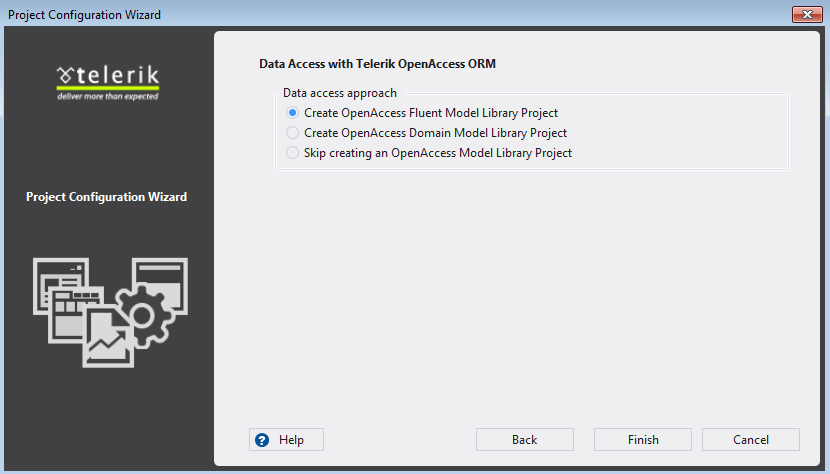
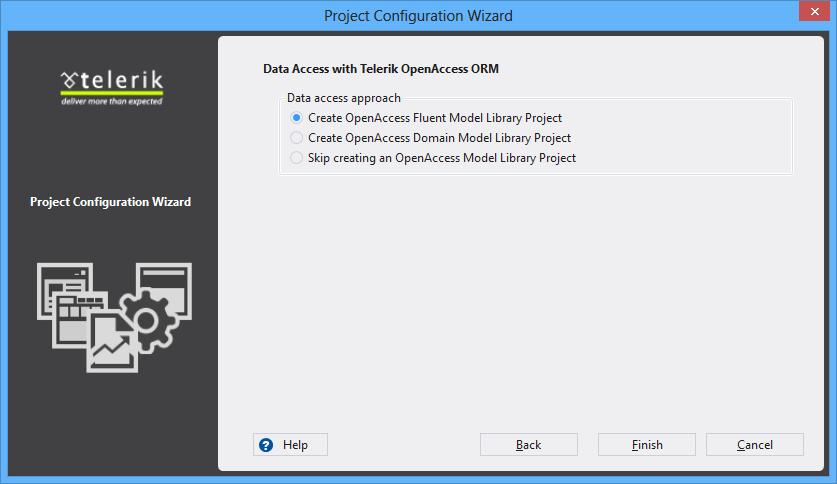
Updating VS Extensions documentation
- Updated articles with content about the new "Add assemblies to
solution" feature
- Updated almost all screenshots (so they are all themed like windows 8,
rather than only some of them). The ones I did not update are in
outdated documentation for functionality that is to be deprecated.

Changed region(s): [[0.0, 0.0, 1.0, 1.0], [0.3012, 0.1181, 0.9337, 0.384], [0.0602, 0.1477, 0.2108, 0.2363]]

diff --git a/getting-started/using-kendo-with/aspnet-mvc/vs-integration/new-project-wizard.md b/getting-started/using-kendo-with/aspnet-mvc/vs-integration/new-project-wizard.md
@@ -17,6 +17,7 @@ The New Project wizard is used for creation of a new Kendo UI for ASP.NET MVC Ap
 Using the options in the Kendo UI for ASP.NET MVC Project Settings page you can modify various project-wide settings:
 
 -	**Version** - Choose which version of Kendo UI for ASP.NET MVC to use
+- **Add referenced assemblies to solution** - Choose whether to copy referenced assemblies to your solution folder. The assemblies will automatically get added to source control when using Microsoft Team Foundation Server. 
 -	**Target ASP.NET MVC Version** – Choose the targeted ASP.NET MVC version
 -	**View Engine** – Choose between Razor and WebForms
 -	**Theme** – Choose the visual theme for your Kendo UI for ASP.NET MVC Application
@@ -47,6 +48,7 @@ When you click 'Finish', the creation of new Kendo UI web application will begin
 - Copy all Kendo UI content files (if CDN support is not enabled)
 - Copy all Kendo UI global resources (optional)
 - Copy all Kendo UI editor templates (optional)
+- Copy the Kendo UI assembly to your solution folder (optional)
 - Add reference to the Kendo.Mvc assembly
 - Apply the pre-selected theme
 - Create test project (optional)

diff --git a/getting-started/using-kendo-with/aspnet-mvc/vs-integration/upgrade-wizard.md b/getting-started/using-kendo-with/aspnet-mvc/vs-integration/upgrade-wizard.md
@@ -24,7 +24,8 @@ The Upgrade Wizard can be launched from **Visual Studio | Telerik | Kendo UI for
 The page allows you to configure the following options:
 
 - **Version** - Select from all versions that have been previously installed or downloaded using the VS Extensions
-- **Download** – Launch the Latest Version Acquirer tool.
+- **Add referenced assemblies to solution** - Choose whether to copy referenced assemblies to your solution folder. The assemblies will automatically get added to source control when using Microsoft Team Foundation Server
+- **Download** – Launch the Latest Version Acquirer tool
 - **Browse** - Browse to a location where the new version is manually downloaded and extracted
 - **Choose Projects** - Choose which projects will be updated (it is recommended to keep all Telerik projects the same version)
   

diff --git a/getting-started/using-kendo-with/aspnet-mvc/vs-integration/convert-project-wizard.md b/getting-started/using-kendo-with/aspnet-mvc/vs-integration/convert-project-wizard.md
@@ -17,6 +17,7 @@ The Convert Project Wizard converts an existing ASP.NET MVC 3 or 4 Application t
 You can modify the following project-wide settings:
 
 - **Version** - Choose which version of Kendo UI for ASP.NET MVC to use
+- **Add referenced assemblies to solution** - Choose whether to copy referenced assemblies to your solution folder. The assemblies will automatically get added to source control when using Microsoft Team Foundation Server
 - **Copy Editor Templates** - Copy the predefined editor templates to ~/Views/Shared/EditorTemplates
 - **Use CDN Support** - Enable or disable [CDN](http://docs.kendoui.com/getting-started/javascript-dependencies#cdn) support.
 - **Copy Global Resources** - Copy the localization files to ~/Scripts/kendo/{version}/cultures 

diff --git a/getting-started/using-kendo-with/aspnet-mvc/vs-integration/vsextensions-options.md b/getting-started/using-kendo-with/aspnet-mvc/vs-integration/vsextensions-options.md
@@ -19,6 +19,9 @@ The settings under the General category affect all of the installed **Telerik Vi
 
 ![Options Dialog](images/options.png)
 
+###Project setup
+- **Add referenced assemblies to solution and source control** – Sets the default value for the Add referenced assemblies to solution option in the Project Configuration Wizard.
+
 ###Project Upgrade Notifications for Detected Local Distributions
 
 - **Suggest project upgrades for Telerik product version available on my computer** – When enabled, you will be prompted to upgrade upon opening a project, which is not using the latest version of Telerik products installed on your system.
